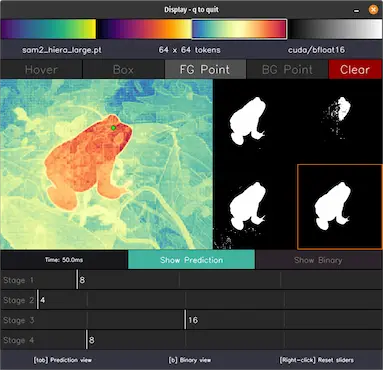
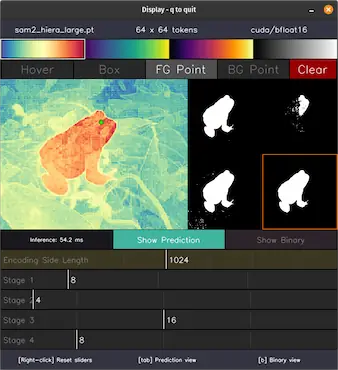
Updates to documentation (readmes + docstrings)

diff --git a/experiments/window_size_visualization.py b/experiments/window_size_visualization.py
@@ -38,6 +38,8 @@ from lib.demo_helpers.ui.text import ValueBlock
 from lib.demo_helpers.ui.colormaps import HColormapsBar, make_spectral_colormap
 from lib.demo_helpers.shared_ui_layout import PromptUIControl, PromptUI, ReusableBaseImage
 
+from lib.demo_helpers.contours import get_contours_from_mask
+
 from lib.demo_helpers.history_keeper import HistoryKeeper
 from lib.demo_helpers.loading import ask_for_path_if_missing, ask_for_model_path_if_missing, load_init_prompts
 from lib.demo_helpers.misc import get_default_device_string, make_device_config, normalize_to_npuint8
@@ -121,6 +123,12 @@ parser.add_argument(
     action="store_true",
     help="Hide text info elements from UI",
 )
+parser.add_argument(
+    "--disable_auto_toggle",
+    default=False,
+    action="store_true",
+    help="If set, adjustments affecting image encodings will not auto-toggle into displaying mask predictions",
+)
 
 # For convenience
 args = parser.parse_args()
@@ -135,6 +143,7 @@ imgenc_base_size = args.base_size_px
 max_window_size = args.max_window_size
 show_iou_preds = args.quality_estimate
 show_info = not args.hide_info
+auto_toggle_to_predictions = not args.disable_auto_toggle
 
 # Set up device config
 device_config_dict = make_device_config(device_str, use_float32)
@@ -308,12 +317,13 @@ window.attach_keypress_callback("b", show_binary_btn.toggle)
 KEY_ZOOM_OUT, KEY_ZOOM_IN = ord("-"), ord("=")
 
 # Set up helper object for re-using an image scaled to match display sizing
-base_img_maker = ReusableBaseImage(full_image_bgr)
+img_bgr_cache = ReusableBaseImage(full_image_bgr)
 
-# Set up separate 'preview' copies of masks, used to maintain a fixed preview display sizing!
+# Set up copies of variables that need to exist before first run
 init_preds_hw = init_mask_preds.shape[2:]
 preview_preds = init_mask_preds
 mask_preds = init_mask_preds
+mask_contours_norm = None
 
 # *** Main display loop ***
 try:
@@ -325,16 +335,21 @@ try:
 
         # Read controls
         _, show_preds_as_display = show_preds_btn.read()
-        _, show_preds_as_binary = show_binary_btn.read()
+        is_binary_changed, show_preds_as_binary = show_binary_btn.read()
         is_length_changed, max_side_length = sidelength_slider.read()
         is_winsizes_changed, win_sizes = zip(*[slider.read() for slider in win_sliders])
+
+        # Switch to show binary mask when toggled on
+        if is_binary_changed and show_preds_as_binary and auto_toggle_to_predictions:
+            show_preds_btn.toggle(True)
 
         # Re-encode image if window sizing changes
         need_image_encode = any(is_winsizes_changed) or is_length_changed
         if need_image_encode:
 
             # Force display back to mask view if image encoding is changing
-            show_preds_btn.toggle(True)
+            if auto_toggle_to_predictions:
+                show_preds_btn.toggle(True)
 
             # Update window sizing & re-run image segmentation to get new (raw) mask outputs for display
             sammodel.image_encoder.set_window_sizes(win_sizes)
@@ -363,29 +378,36 @@ try:
         if show_iou_preds:
             uictrl.draw_iou_predictions(iou_preds)
 
-        # Re-generate display image at required display size
-        # -> Not strictly needed, but can avoid constant re-sizing of base image (helpful for large images)
+        # Scale selected mask to match display sizing
         display_hw = ui_elems.image.get_render_hw()
-        disp_img = base_img_maker.regenerate(display_hw)
-        if show_preds_as_display:
+        mask_select = mask_preds[:, mselect_idx, :, :].unsqueeze(1)
+        use_nearest_interpolation = show_preds_as_display and (not show_preds_as_binary)
+        mask_scaled = torch.nn.functional.interpolate(
+            mask_select,
+            size=display_hw,
+            mode="nearest-exact" if use_nearest_interpolation else "bilinear",
+            align_corners=None if use_nearest_interpolation else False,
+        ).squeeze(dim=(0, 1))
 
-            # Scale selected mask to match display sizing
-            use_smooth_interpolation = show_preds_as_binary
-            mask_scaled = torch.nn.functional.interpolate(
-                mask_preds[:, mselect_idx, :, :].unsqueeze(1),
-                size=display_hw,
-                mode="bilinear" if use_smooth_interpolation else "nearest-exact",
-                align_corners=False if use_smooth_interpolation else None,
-            ).squeeze(dim=(0, 1))
+        # Handle display output, based on UI state
+        if show_preds_as_binary and show_preds_as_display:
+            disp_img = ((mask_scaled > 0.0).byte() * 255).cpu().numpy()
 
-            # Convert mask to displayable image
-            if show_preds_as_binary:
-                disp_img = ((mask_scaled > 0.0).byte() * 255).cpu().numpy()
-            else:
-                mask_uint8 = normalize_to_npuint8(mask_scaled)
-                disp_img = cmap_bar.apply_colormap(mask_uint8)
+        elif show_preds_as_display:
+            # Show colormapped mask result
+            mask_uint8 = normalize_to_npuint8(mask_scaled)
+            disp_img = cmap_bar.apply_colormap(mask_uint8)
+
+        else:
+            # Show original image (scaled to display size & cached)
+            disp_img = img_bgr_cache.regenerate(display_hw)
+
+            # Process contour data for overlay
+            mask_uint8 = ((mask_scaled > 0.0).byte() * 255).cpu().numpy()
+            ok_contours, mask_contours_norm = get_contours_from_mask(mask_uint8, normalize=True)
 
         # Render final output
+        ui_elems.olays.polygon.set_polygons(None if show_preds_as_display else mask_contours_norm)
         ui_elems.image.set_image(disp_img)
         display_image = disp_layout.render(h=display_size_px)
         req_break, keypress = window.show(display_image)

diff --git a/lib/v2_sam/components/hiera_model.py b/lib/v2_sam/components/hiera_model.py
@@ -27,9 +27,12 @@ class HieraModel(nn.Module):
         Piotr Dollár, Christoph Feichtenhofer
         @ https://ai.meta.com/research/publications/sam-2-segment-anything-in-images-and-videos/
 
-    This model is a multi-stage vision-transformer which uses windowed attention on most blocks.
+    This model is a fairly complex, multi-stage, multi-resolution vision-transformer which uses
+    windowed attention on most blocks. This implementation (for SAMv2) is expected to have 4 stages.
     At each stage (except the first) inputs are pooled, which results in spatial downsampling of
-    processed image tokens. Some stages include equally spaced non-windowed attention blocks.
+    processed image tokens. The third stage includes equally spaced non-windowed attention blocks.
+    The spacing of the non-windowed attention blocks as well as the window sizes per (windowed)
+    block are set by external configs and do not follow an intuitive pattern.
 
     The output of the model is a list of encoded image tokens output from each of the
     stages of the model. Each set of tokens is progressively halved in width & height,
@@ -138,18 +141,25 @@ class HieraModel(nn.Module):
 
 class HieraStage(nn.Sequential):
     """
-    Represents a single stage of the hierarchical image encoder (Hiera) from SAMV2
+    Represents a single stage of the hierarchical image encoder (Hiera) from SAMV2.
 
-    Each stage consists of a sequence of transformer blocks for encoding image patch tokens.
-    Except for the first stage (generally?) each stage begins with a 2x2 max-pooling, which
-    reduces the spatial size of tokens which doubling the features per token.
+    Each stage consists of a sequence of (mostly) windowed transformer blocks for
+    encoding image patch tokens. Except for the first stage, each stage begins with
+    a 2x2 max-pooling, which reduces the spatial size of tokens while doubling the
+    features per token. The window sizing varies per stage according to external
+    configs, though the first block of each stage can use a different window size
+    (usually matched to the stage before it).
 
-    Within the 3rd stage of the model, there are always (so far?) 3 blocks which use global
-    attention (i.e. not windowed), which are all equally spaced starting from the final
-    block of the stage. This pattern is hard-coded into this implementation.
+    Within the 3rd stage of the model, there are always (at least for SAMv2) 3 blocks
+    which use global attention (i.e. not windowed). The final block of stage 3 is
+    always a global block, with the remaining two blocks spaced 'N' and '2N' blocks
+    earlier in the sequence, where the global block spacing 'N' is given by an
+    external config (i.e. the blocks aren't evenly spaced across the stage itself).
 
     Note: This module is not present in the original implementation. Instead all blocks are
     configured as a single sequence, with per-stage configurations handled on init.
+    The equivalent original code can be found here:
+    https://github.com/facebookresearch/segment-anything-2/blob/7e1596c0b6462eb1d1ba7e1492430fed95023598/sam2/modeling/backbones/hieradet.py#L232
     """
 
     # .................................................................................................................

diff --git a/lib/v2_sam/components/hiera_blocks.py b/lib/v2_sam/components/hiera_blocks.py
@@ -21,8 +21,9 @@ class TransformerBlock(nn.Module):
     Wrapper around self-attention block which adds layernorms & MLP on output.
     This is a standard vision-transformer-encoder with GELU (MLP) activations.
 
-    This implementation corresponds to a specific configuration of what was
-    called a 'MultiScaleBlock' in the original implementation.
+    This implementation corresponds to a specific configuration (window_size=0)
+    of what was called a 'MultiScaleBlock' in the original implementation. See:
+    https://github.com/facebookresearch/segment-anything-2/blob/7e1596c0b6462eb1d1ba7e1492430fed95023598/sam2/modeling/backbones/hieradet.py#L82
     """
 
     # .................................................................................................................
@@ -74,7 +75,8 @@ class WindowedBlock(nn.Module):
     ability to encode data about long-range pairings of image tokens.
 
     This implementation corresponds to a specific configuration of what was
-    called a 'MultiScaleBlock' in the original implementation.
+    called a 'MultiScaleBlock' in the original implementation. See:
+    https://github.com/facebookresearch/segment-anything-2/blob/7e1596c0b6462eb1d1ba7e1492430fed95023598/sam2/modeling/backbones/hieradet.py#L82
     """
 
     # .................................................................................................................
@@ -303,8 +305,9 @@ class PooledSelfAttention(nn.Module):
     and supports different feature sizes for input/outputs.
 
     The original implementation does not have this module, instead
-    it uses flags to toggle the pooling functionality on/off at runtime
-    from a single (shared) self-attention module called 'MultiScaleAttention'.
+    it uses flags to toggle the pooling functionality on/off at runtime from
+    a single (shared) self-attention module called 'MultiScaleAttention', see:
+    https://github.com/facebookresearch/segment-anything-2/blob/7e1596c0b6462eb1d1ba7e1492430fed95023598/sam2/modeling/backbones/hieradet.py#L37
     """
 
     # .................................................................................................................

diff --git a/experiments/README.md b/experiments/README.md
@@ -17,26 +17,33 @@ Here for example, a single picture of a cat is used to segment a fox from a sepa
 
 ## ViT Position Encoding Visualization
 
-This script was made out of curiosity, after observing that SAMv1 tends to outperform SAMv2 at image segmentation when working with downscaled or non-square images, figuring that it may have something to do with the positional encodings. These are the encodings that are added to the initial patch embedding tokens to help represent the positioning of each token within the image and relative to one another.
+This script was made after observing that SAMv1 tends to outperform SAMv2 at image segmentation when working with downscaled or non-square images, figuring that it may have something to do with the positional encodings (in retrospect, the window sizing of v2 is probably the issue). The visualization here is for the encodings that are added to the initial patch embedding tokens to help represent the positioning of each token within the image.
 
-Since they are added to the patch tokens just before the transformer, the encodings have a natural 'per-pixel' (or really per-token) format that can be visualized as an image by assigning a color to them based on the relative values of each token/pixel position. The UI includes a slider to adjust which feature 'channel' is being visualized, along with the [L2 norm](https://en.wikipedia.org/wiki/Norm_(mathematics)) (a.k.a the [hypotenuse](https://en.wikipedia.org/wiki/Hypotenuse)) of the encodings is also shown (by default) beside the per-channel visualization. There are also sliders for adjusting the patch sizing.
+Since they are added to the patch tokens just before the vision transformer, the encodings have a natural 'per-pixel' (or really per-token) format that can be visualized as an image by assigning a color to them based on the relative values of each token/pixel position. The UI includes a slider to adjust which feature 'channel' is being visualized, along with the [L2 norm](https://en.wikipedia.org/wiki/Norm_(mathematics)) (a.k.a the [hypotenuse](https://en.wikipedia.org/wiki/Hypotenuse)) of the encodings is also shown (by default) beside the per-channel visualization. There are also sliders for adjusting the patch sizing.
 
 <p align="center">
   <img src=".readme_assets/vitposenc_example.webp" alt="">
 </p>
 
-It's interesting to compare the v1 and v2 encodings, as they are dramatically different! For example, SAMv1 has an obvious ordering and structure to the features. There are 4 distinct starting patterns, evenly spaced along the channels, which start out as low-frequency vertical or horizontal bars and then turn into complicated high-frequency patterns. By comparison, the v2 encodings are made of two parts, a window-tiling component (which can be disabled) and an underlying low-frequency sinuisoidal pattern which doesn't appear to be ordered along channels like the v1 models. Surprisingly, the v2-base model has noticably higher-frequency patterns in it's position encodings compared to all other models.
+It's interesting to compare the v1 and v2 encodings, as they are dramatically different! For example, SAMv1 has an obvious ordering and structure to the features. There are 4 distinct patterns that are evenly spaced along the channels, which start out as simple low-frequency bars and turn into complicated high-frequency patterns. By comparison, the v2 encodings are made of two parts, a window-tiling component (which can be disabled) and an underlying low-frequency sinuisoidal pattern which doesn't appear to be ordered along channels like the v1 models. Surprisingly, the v2-base model has noticably higher-frequency patterns in it's position encodings compared to all other models.
 
 It's worth noting that the default [bfloat16](https://pytorch.org/docs/stable/tensor_attributes.html#torch-dtype) data type seems to corrupt the SAMv1 encodings to some extent, though it doesn't affect segmentation performance (...not sure why?). Switching to float32 (using the `-f32` flag when running the script) avoids this distortion.
 
 ## Window Size Visualization
 
-This script was originally inspired by a [pull request](https://github.com/facebookresearch/segment-anything/pull/594) on the original SAMv1 model which suggested some improvements when using a window size of 16 (which evenly 'tiles' into the default 64x64 patch sizing) instead of the base size of 14. SAMv2 has a far more complex use of windowing which varies by stage in a somewhat unpredictable pattern, leading to even more questions about the consequences of changing the window sizing.
+This script was inspired by a [pull request](https://github.com/facebookresearch/segment-anything/pull/594) for the SAMv1 model which suggested some improvements when using a window size of 16 (which evenly 'tiles' into the default 64x64 patch sizing) instead of the base size of 14. SAMv2 has a far more complex use of windowing which varies by stage in a somewhat unpredictable pattern, leading to even more questions about the consequences of changing the window sizing.
 
 <p align="center">
   <img src=".readme_assets/windowsizing_example.webp" alt="">
 </p>
 
-The UI allows for independently updating the window size of each stage (for both SAMv1 & v2) while watching what happens to the raw mask predictions (i.e. without thresholding) of the model for a given prompt. It's also possible to change the prompt as this is happening. One interesting observation from playing with this script is that the SAMv2 stages are consistently most-to-least sensitive in order: stage 3, 2, 1 and then 4 (changes to sizing on stage 4 has almost no effect). Additionally, there are minor (5-10%) performance improvements when using certain window sizes, including sizes that are bigger than the defaults (e.g. using a size of 16 for all stages). By comparison, while SAMv1 is affected by changes to window sizing, it doesn't appear in a patterned way (from very limited testing to be fair). It also seems fine with a window sizing of 16 (and is 3-5% faster) as the original pull request suggested.
+The UI allows for independently updating the window size of each stage (for both SAMv1 & v2) while watching what happens to the raw mask predictions (i.e. without thresholding) of the model for a given prompt. It's also possible to change the prompt as this is happening.
 
-This script also supports adjustments to the image size (using the `-b` flag) and using non-square aspect ratios (the `-ar` flag), which produce a entirely different set of patterns!
+<p align="center">
+  <img src=".readme_assets/windowsizing_anim.gif" alt="">
+</p>
+
+
+
+
+One interesting observation from playing with this script is that adjustments to stages 1, 2 & 3 of SAMv2 show consistent but distinct effects. For example, changes to stage 1 tend to shuffle around small artifacts, increasing sizing on stage 2 has a blurring effect while decreasing sizing on stage 3 destabilizes the masking entirely. By comparison, while SAMv1 is affected by changes to window sizing on any stage, it tends to be less consistent and less detrimental. As the original (SAMv1) pull request suggested, increasing the window size to 16 actually _speeds up_ the model slightly (this is true for v2 as well) without dramatically harming the masking results (not true for v2!).

diff --git a/README.md b/README.md
@@ -6,14 +6,14 @@ This repo contains a simplified implementation of the awesome 'Segment Anything'
   <img src=".readme_assets/demo_anim.gif">
 </p>
 
-While the focus of this implementation is on interactivity and readability of the code, this implementation provides support for arbitrary input resolutions, which can improve performance in some cases.
+While the focus of this implementation is on interactivity and readability of the model code, this implementation provides support for arbitrary input resolutions, which can improve performance in some cases. For example, at reduced resolutions, SAMv2 gets a [~4x speed up](https://github.com/heyoeyo/muggled_sam/tree/main/simple_examples#video-segmentation) on video segmentation.
 
 > [!Note]
 > This repo is a (messy) work-in-progress! The end goal is to have something resembling [MuggledDPT](https://github.com/heyoeyo/muggled_dpt).
 
 ## Getting started
 
-This repo includes two demo scripts, [run_image.py](https://github.com/heyoeyo/muggled_sam/blob/main/run_image.py) and [run_video.py](https://github.com/heyoeyo/muggled_sam/blob/main/run_video.py) (along with a number of [simple examples](https://github.com/heyoeyo/muggled_sam/tree/main/simple_examples)). To use these scripts, you'll first need to have [Python](https://www.python.org/) (v3.10+) installed, then set up a virtual environment and install some additional requirements.
+This repo includes two demo scripts, [run_image.py](https://github.com/heyoeyo/muggled_sam/blob/main/run_image.py) and [run_video.py](https://github.com/heyoeyo/muggled_sam/blob/main/run_video.py) (along with a number of [simple examples](https://github.com/heyoeyo/muggled_sam/tree/main/simple_examples) and [experiments](https://github.com/heyoeyo/muggled_sam/tree/main/experiments)). To use these scripts, you'll first need to have [Python](https://www.python.org/) (v3.10+) installed, then set up a virtual environment and install some additional requirements.
 
 ### Install
 First create and activate a virtual environment (do this inside the repo folder after [cloning/downloading](https://docs.github.com/en/repositories/creating-and-managing-repositories/cloning-a-repository) it):
@@ -125,9 +125,9 @@ To use the script, make sure you've activated the virtual environment (from the 
 python run_video.py
 ```
 
-As with the image script, you can add `--help` to the end of this command to see a list of additional flags. For example, you can add the flag `--use_webcam` to run segmentation on a live webcam feed.
+As with the image script, you can add `--help` to the end of this command to see a list of additional flags. For example, you can add the flag `--use_webcam` to run segmentation on a live webcam feed. Using `-b 512` and `-ar` can provide a significant speed up if needed (box prompting works better at reduced resolutions btw!).
 
-This script is a messy work-in-progress for now, more features & stability updates to come!
+This script is a messy work-in-progress for now, more features & stability updates to come! If you'd like a more hackable solution, check out the (much easier to follow) [video segmentation example](https://github.com/heyoeyo/muggled_sam/blob/main/simple_examples/video_segmentation.py).
 
 
 # Acknowledgements
